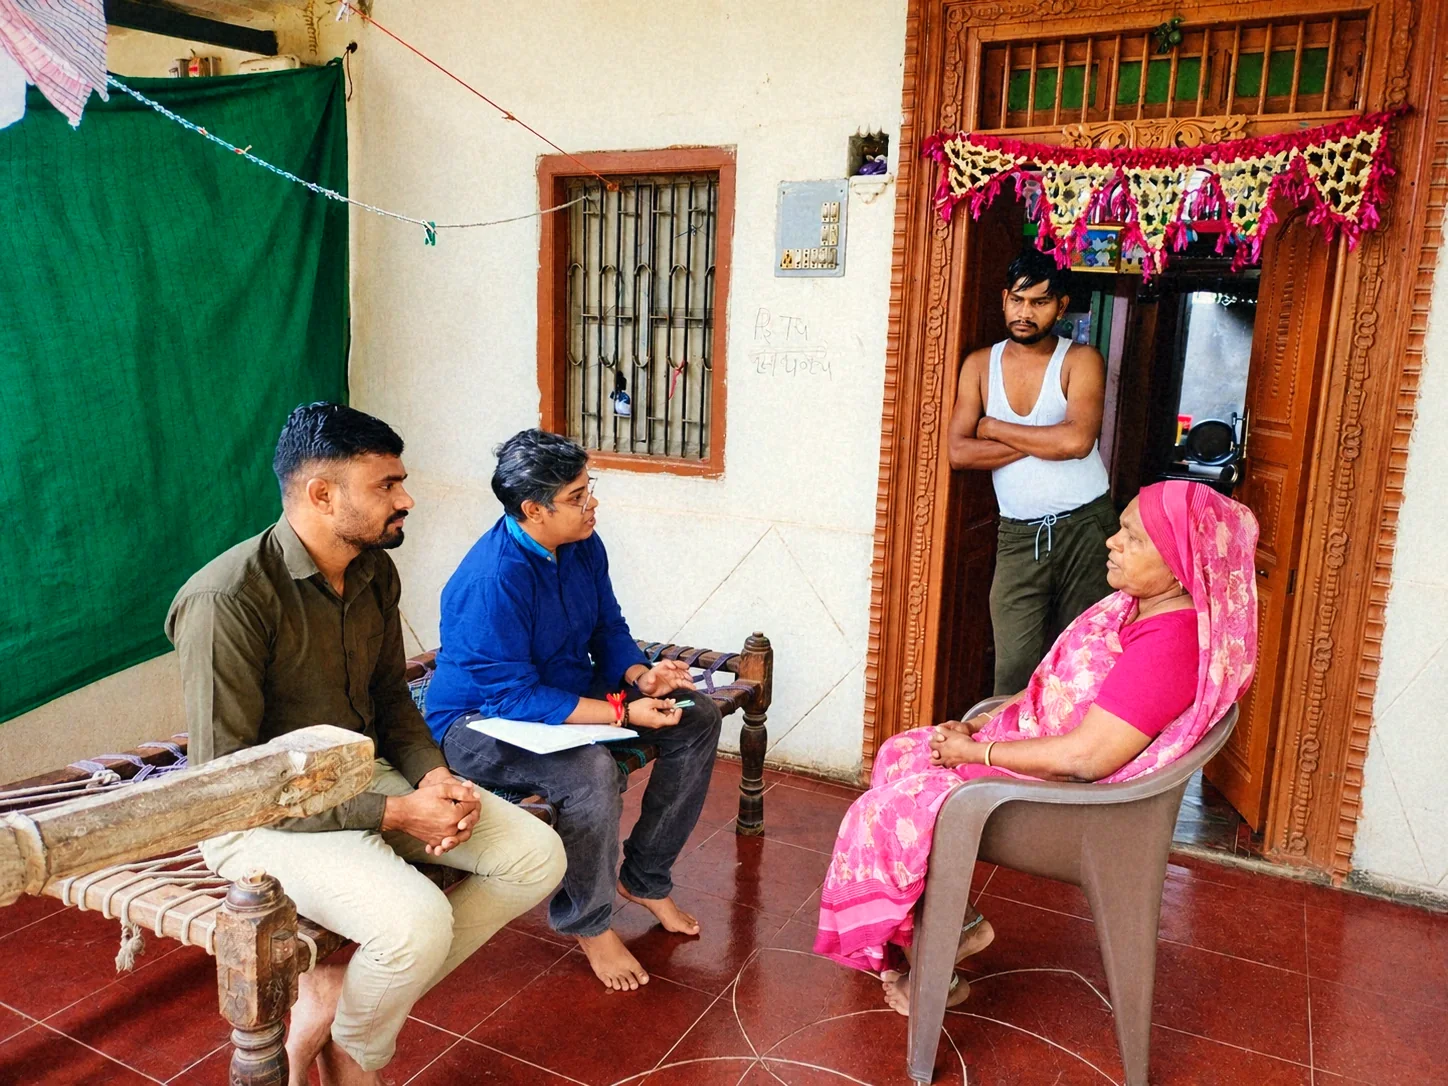
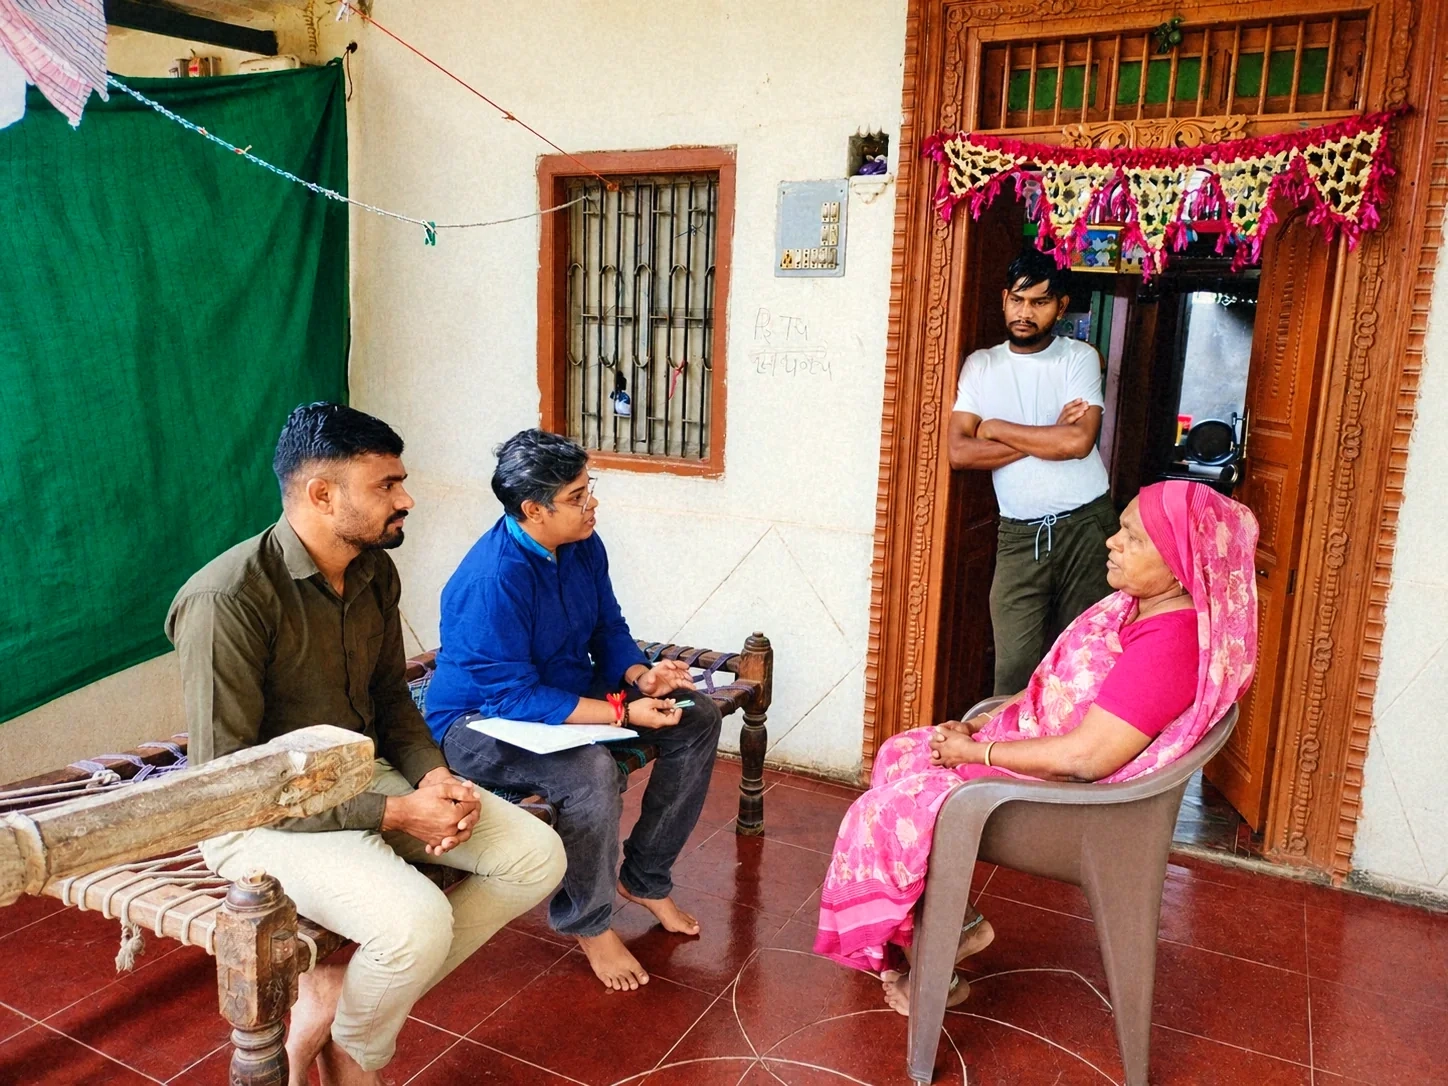
MEL What we do: restore original layout, use the supplied photo

Changed region(s): [[0.6526, 0.3039, 0.7769, 0.4254]]

diff --git a/docs/measurementevaluationlearning.html b/docs/measurementevaluationlearning.html
@@ -485,17 +485,17 @@ main .hero.ml.hb .hero-col{margin-top:-24px}
 #do{padding:0 0 clamp(64px,8vw,104px)}
 #do .band{padding-bottom:150px}
 #do .dash{margin-top:-110px}
-#do .dash{display:grid;grid-template-columns:minmax(0,1fr) minmax(0,1fr)}
-.ml-shot{position:relative;min-height:420px;border-right:1px solid var(--line)}
-.ml-shot div{position:absolute;inset:0;overflow:hidden;background:var(--cream-2)}
-.ml-shot img{width:100%;height:100%;object-fit:cover;object-position:50% 50%}
-.ml-steps{display:grid;grid-template-columns:1fr;align-content:stretch}
+.ml-shot{background:var(--cream);padding:clamp(20px,3vw,32px) clamp(20px,3vw,32px) 0;border-bottom:1px solid var(--line)}
+.ml-shot div{max-width:860px;margin:0 auto;height:clamp(180px,24vw,300px);overflow:hidden;border-radius:6px 6px 0 0;background:#fff;box-shadow:0 1px 2px rgba(34,37,32,.06),0 18px 40px -22px rgba(34,37,32,.4)}
+.ml-shot img{width:100%;height:100%;object-fit:cover;object-position:50% 48%}
+.ml-steps{display:grid;grid-template-columns:repeat(3,minmax(0,1fr))}
 .ml-steps li{display:grid;grid-template-columns:38px 1fr;gap:12px;align-items:center;padding:20px 24px;transition:background .2s}
 .ml-steps li:hover{background:var(--cream)}
-.ml-steps li+li{border-top:1px solid var(--line)}
+.ml-steps li:not(:nth-child(3n+1)){border-left:1px solid var(--line)}
+.ml-steps li:nth-child(n+4){border-top:1px solid var(--line)}
 .ml-steps .n{display:grid;place-items:center;width:36px;height:36px;border-radius:50%;background:var(--yellow);font-size:11px;font-weight:800}
 .ml-steps h3{font-size:clamp(18px,1.6vw,21px);line-height:1.22}
-@media (max-width:860px){#do .dash{grid-template-columns:1fr}.ml-shot{min-height:0;aspect-ratio:4/3;border-right:0;border-bottom:1px solid var(--line)}}
+@media (max-width:860px){.ml-steps{grid-template-columns:1fr}.ml-steps li:not(:nth-child(3n+1)){border-left:0}.ml-steps li+li{border-top:1px solid var(--line)}}
 
 /* principle: statement */
 #principle .stmt .caps{color:var(--yellow-ink)}
@@ -666,7 +666,7 @@ main .hero.ml.hb .hero-col{margin-top:-24px}
   </div>
   <div class="wrap">
     <div class="dash shadow rv">
-      <div class="ml-shot"><div><img src="assets/img/cine/measurementevaluationlearning-steps.webp" alt="A field team speaking with a woman on her veranda" width="1448" height="1086" loading="lazy"></div></div>
+      <div class="ml-shot"><div><img src="assets/img/cine/measurementevaluationlearning-steps.webp?v=2" alt="A field team speaking with a woman on her veranda" width="1448" height="1086" loading="lazy"></div></div>
       <ol class="ml-steps">
         <li><span class="n" aria-hidden="true">01</span><h3>Build a theory of change.</h3></li>
         <li><span class="n" aria-hidden="true">02</span><h3>Define indicators.</h3></li>
